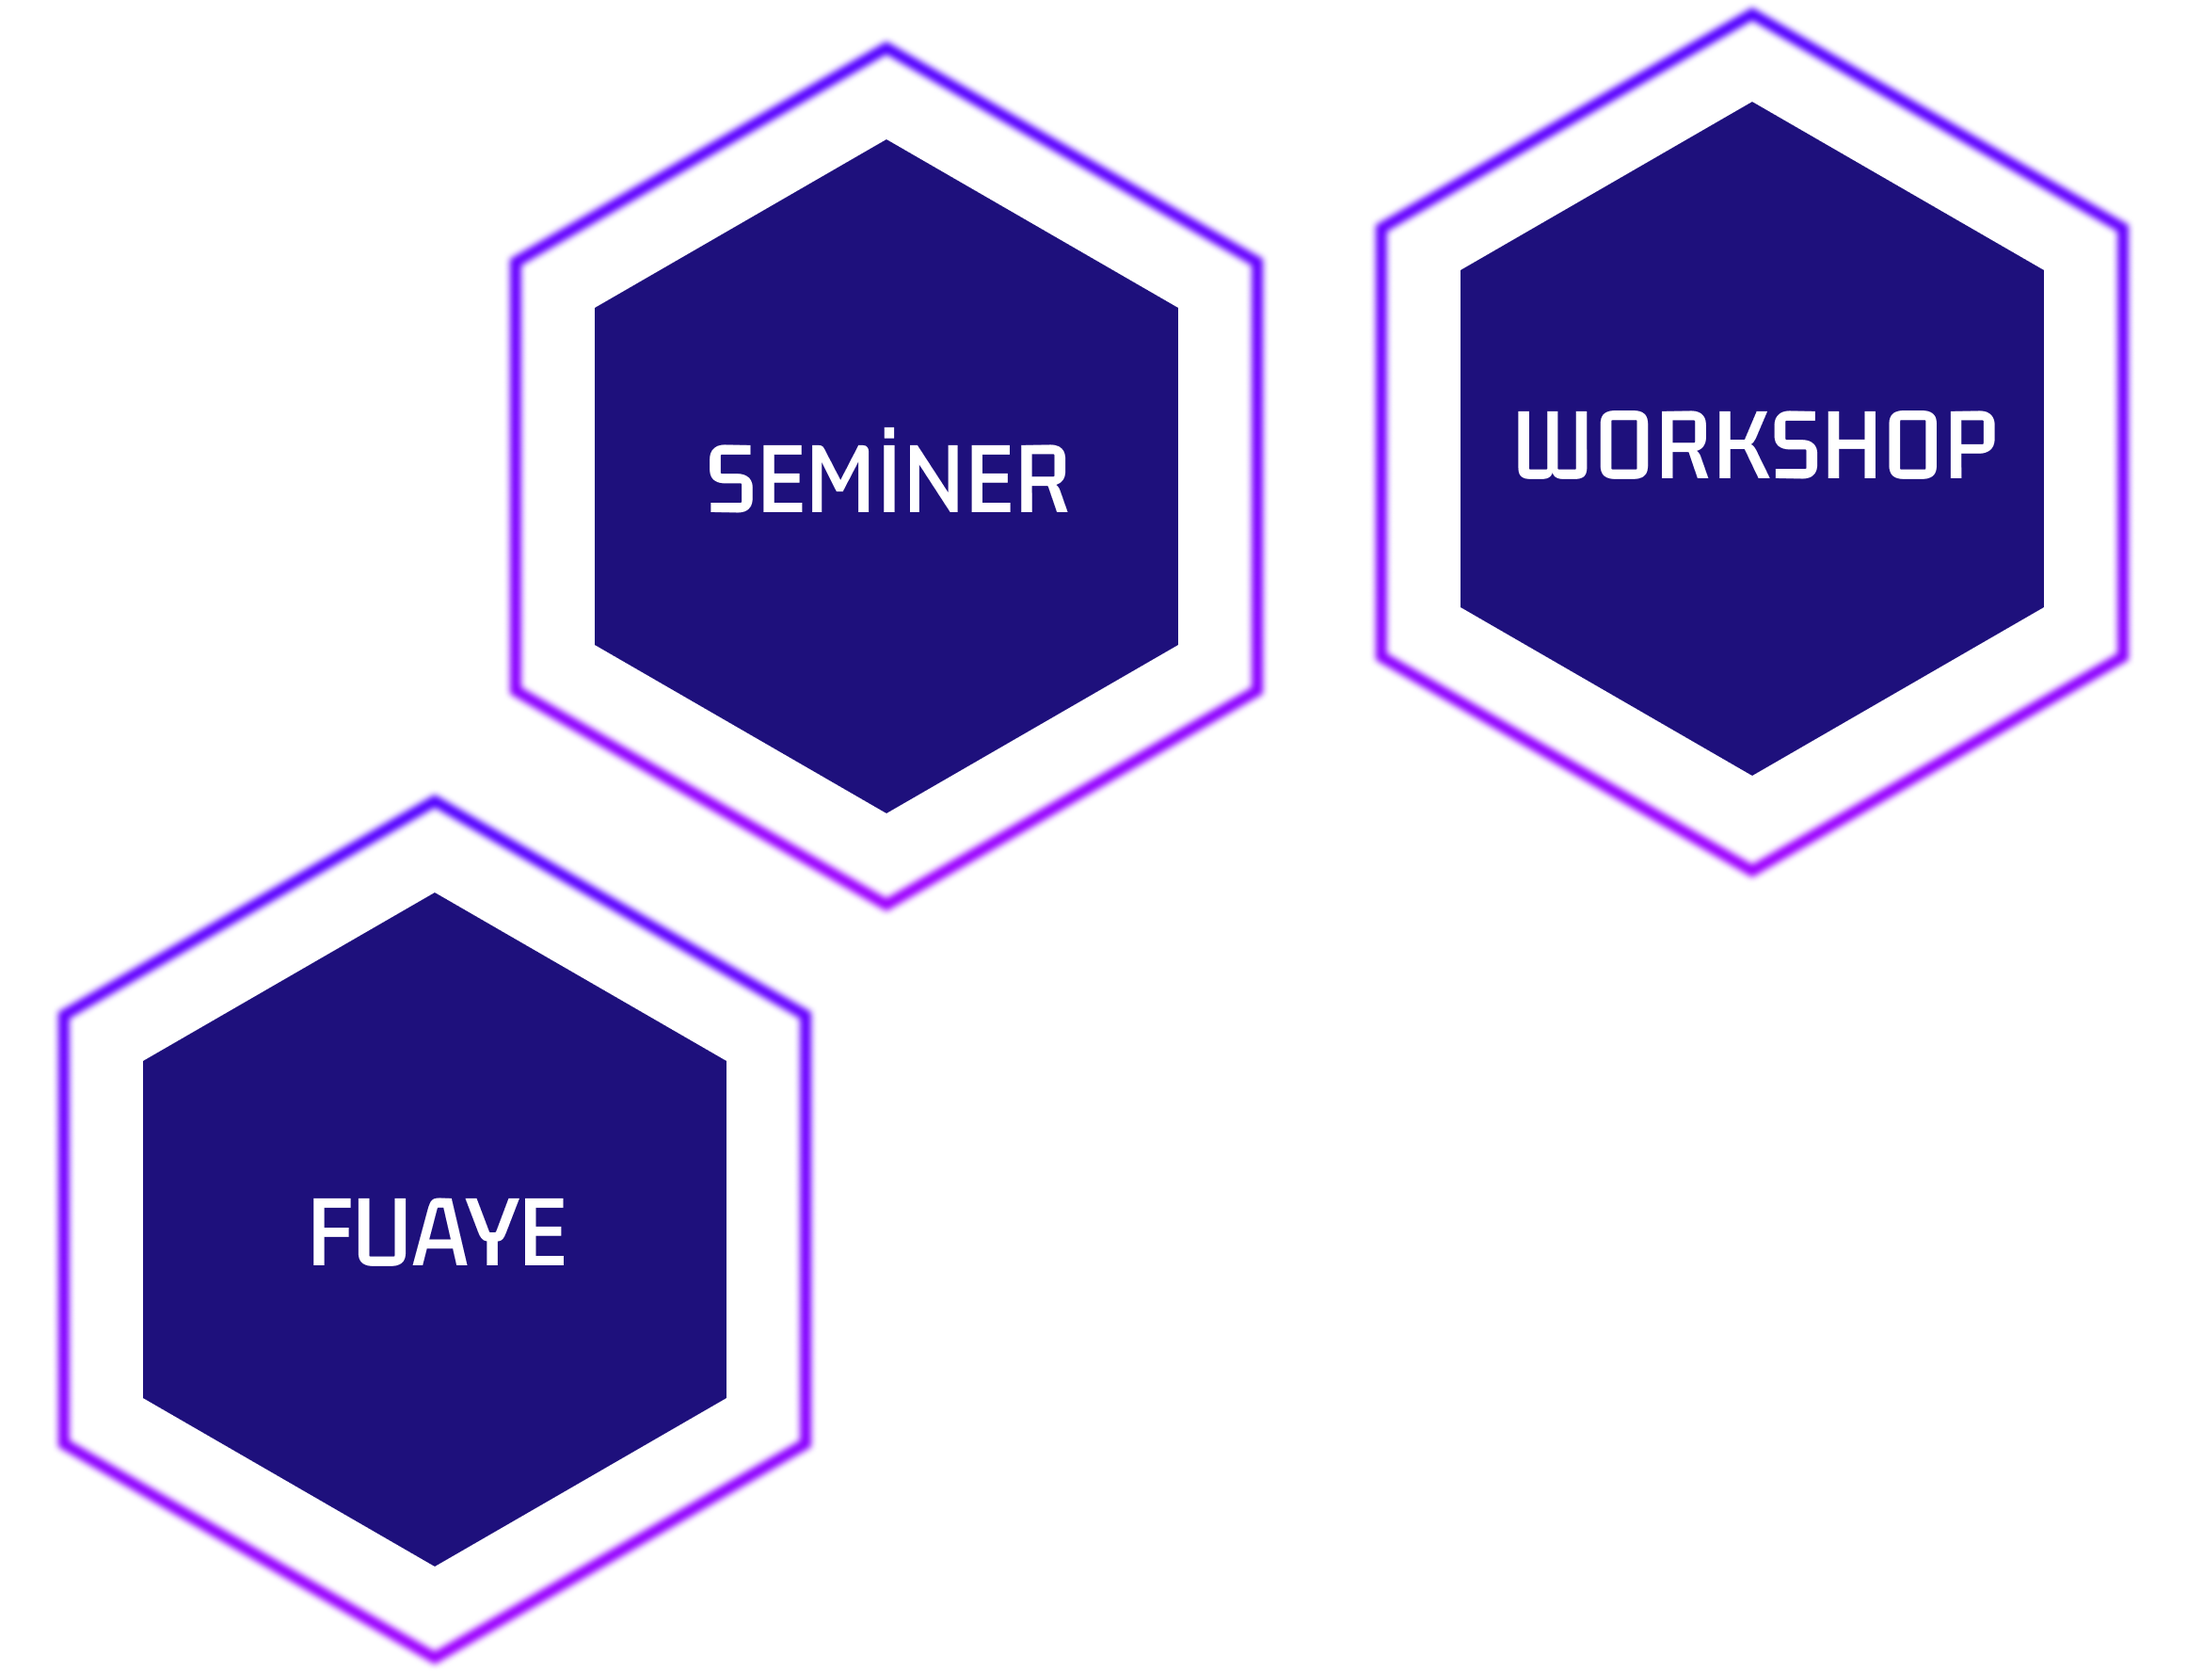
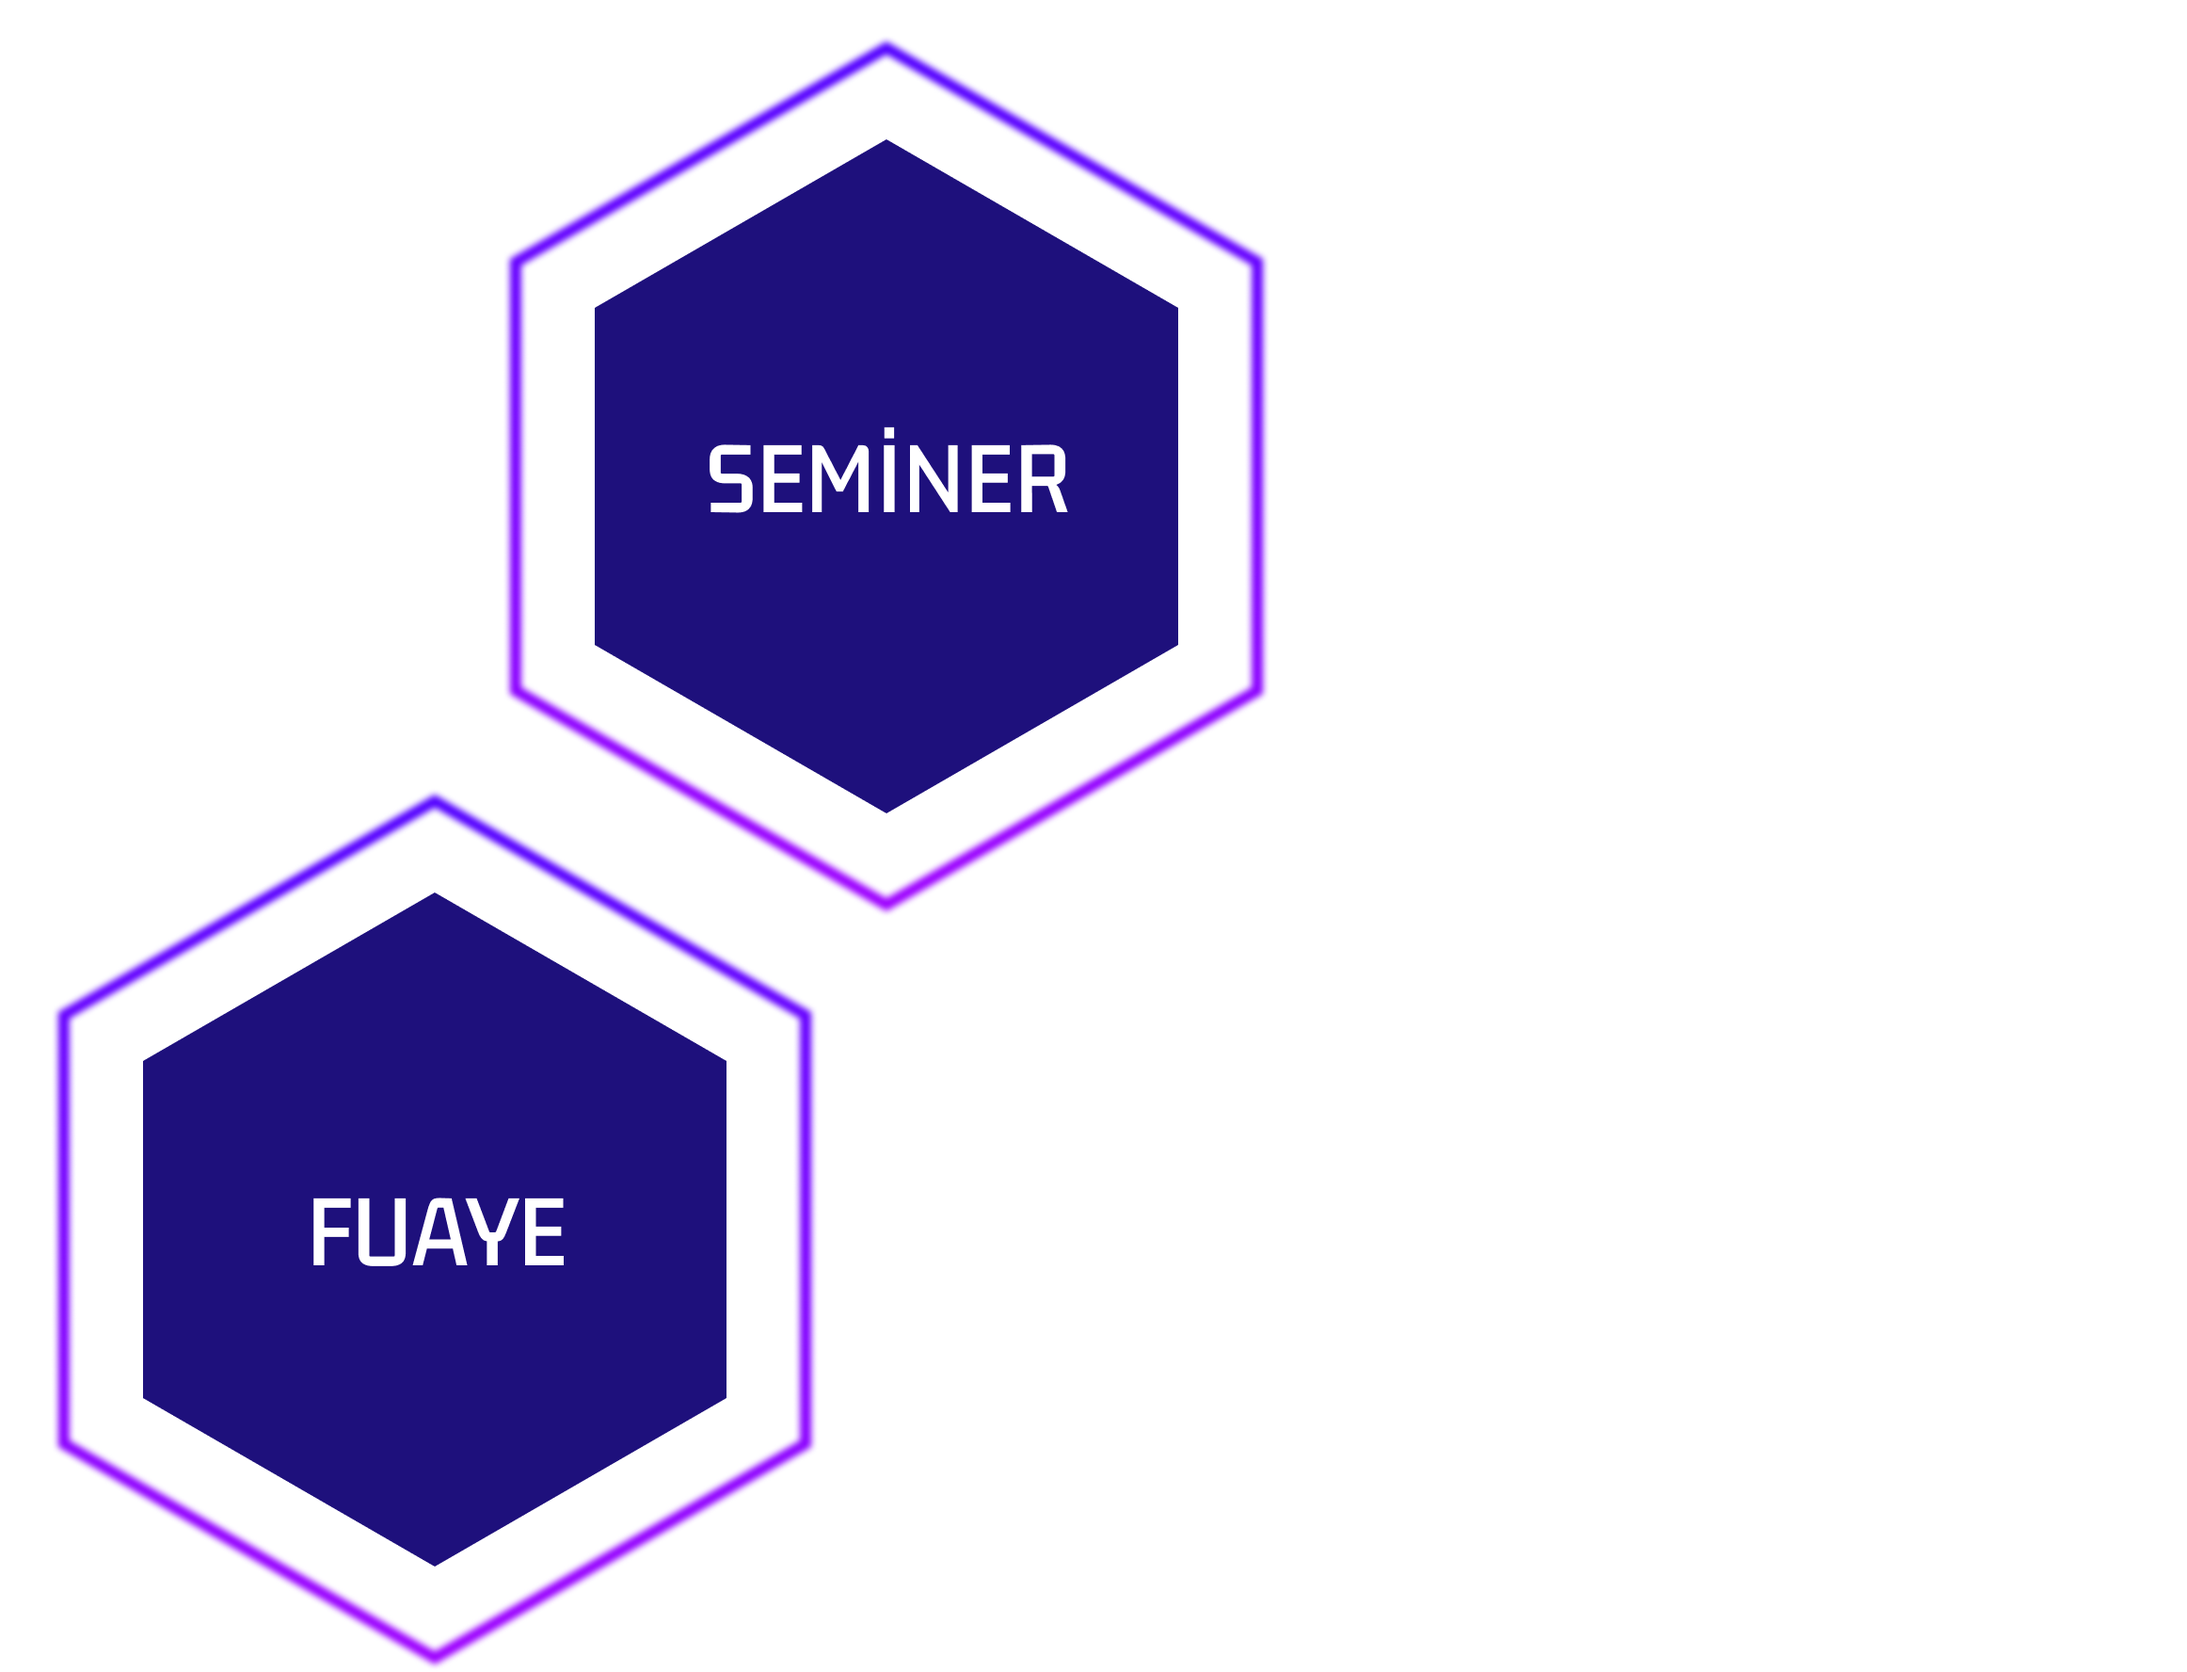
image updated

diff --git a/index.html b/index.html
@@ -90,7 +90,7 @@
     <div class="circle3"></div>
     <div class="circle4"></div>
     <div class="seminar">
-      <h1 class="title_seminar">KONUŞMACILARIMIZ & WORKSHOP</h1>
+      <h1 class="title_seminar">KONUŞMACILARIMIZ</h1>
       <div class="cardtop">
         <div class="card top">
           <img src="./img/sponsor.png" alt="Avatar" style="width:100%">
